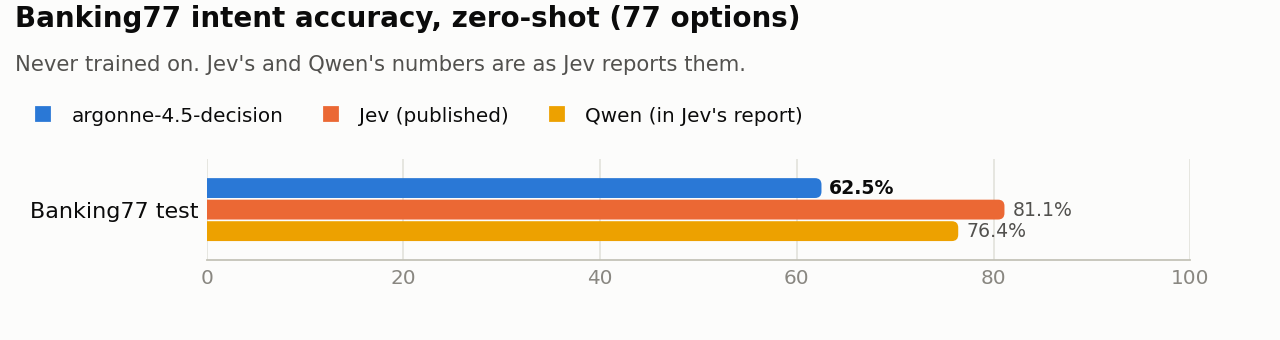
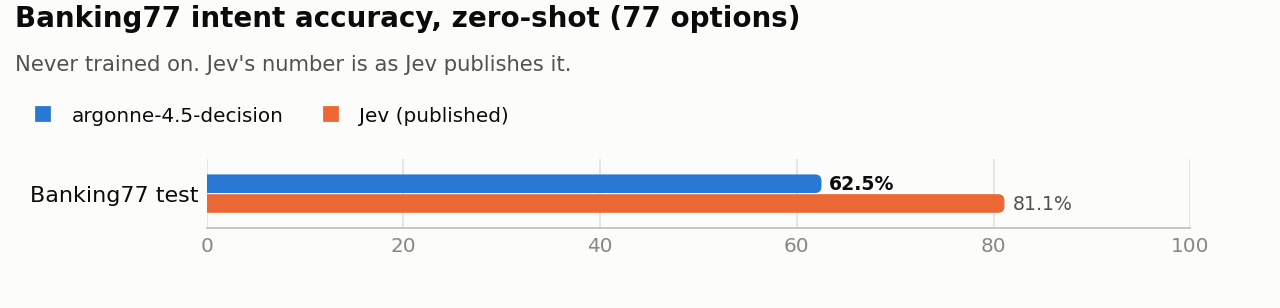
argonne-4.5-decision card: compare against zero-shot classifiers
The card and README now compare argonne-4.5-decision with the two most used open zero-shot classifiers,
DeBERTa-v3-large zero-shot v2.0 and BART-large-MNLI, on the eleven decision sets none of them trained
on, scored by decision/bench_report.py on identical items. Paired over all 23,410 items it is 4.5 points
more accurate than DeBERTa (95% bootstrap interval 3.7 to 5.2, exact McNemar p below 1e-30) and 18.4
more than BART (17.7 to 19.1), with mean calibration error 0.119 against 0.215 and 0.300. DeBERTa
remains better on plain sentiment, spam and 20 Newsgroups.

The Banking77 figure and table keep only Jev's published number next to ours, and general-LLM
comparisons are removed. decision/baseline_suite.py is now the NLI zero-shot classifier path only.

diff --git a/decision/baseline_suite.py b/decision/baseline_suite.py
@@ -1,30 +1,18 @@
-"""Open-model baselines on the decision sets argonne-4.5-decision never trained on, scored like the model itself.
+"""Zero-shot classifier baselines on the decision sets argonne-4.5-decision never trained on, scored like the model.
 
-    python decision/baseline_suite.py --kind nli --model MoritzLaurer/deberta-v3-large-zeroshot-v2.0 --data ood.jsonl --out x.npz
-    python decision/baseline_suite.py --kind llm --model Qwen/Qwen2.5-7B-Instruct --data ood.jsonl --out y.npz
+    python decision/baseline_suite.py --model MoritzLaurer/deberta-v3-large-zeroshot-v2.0 --data ood.jsonl --out x.npz
 
-nli: a zero-shot NLI classifier, the standard recipe (the Hugging Face zero-shot pipeline's). Choice: one premise /
-hypothesis pair per option ("This example is {option}." for label lists, "The answer is: {option}" for questions),
-softmax over the options' entailment logits. Noul: the statement itself is the hypothesis, P(entailment).
-llm: an instruction model through vLLM, thinking off. Choice with up to 26 options: lettered options, the first answer
-token's log-probabilities over the letters. More than 26 options: the model writes the option (greedy), matched to the
-list; accuracy only, since no single token carries a probability. Noul: p("true") / (p("true") + p("false")).
-Writes evaluate.py's npz layout (ood_logits, ood_label, ood_source, ood_ids, ood_source_names, ood_scored), so the
-same accuracy and calibration code reads every model. ood_scored marks the items whose probabilities are real.
+The standard recipe (the Hugging Face zero-shot pipeline's). Choice: one premise / hypothesis pair per option ("This
+example is {option}." for label lists, "The answer is: {option}" for questions), softmax over the options' entailment
+logits. Noul: the statement itself is the hypothesis, P(entailment). Writes evaluate.py's npz layout (ood_logits,
+ood_label, ood_source, ood_ids, ood_source_names, ood_scored), so decision/bench_report.py scores every model the same.
 """
 import argparse
-import difflib
 import json
-import math
 
 import numpy as np
 
-LETTERS = "ABCDEFGHIJKLMNOPQRSTUVWXYZ"
 LABEL_LISTS = ("banking77", "newsgroups", "fin_topic", "fin_sentiment")   # options are label names, not answers
-
-
-def norm(t):
-    return " ".join("".join(c if c.isalnum() else " " for c in t.lower()).split())
 
 
 def hyp_choice(r, opt):
@@ -80,91 +68,16 @@ def run_nli(args, recs):
     return L, np.ones(len(recs), dtype=bool)
 
 
-def _shim_tokenizer_for_vllm():
-    """transformers 5.x removed `all_special_tokens_extended`, which vLLM 0.11's tokenizer cache still reads.
-    Rebuild it from added_tokens_decoder (the same shim reasoning/vllm_argonne.py applies)."""
-    from transformers.tokenization_utils_base import PreTrainedTokenizerBase
-    if hasattr(PreTrainedTokenizerBase, "all_special_tokens_extended"):
-        return
-
-    def _aste(self):
-        dec = getattr(self, "added_tokens_decoder", {}) or {}
-        out = [dec[i] for i in self.all_special_ids if i in dec]
-        return out if out else list(self.all_special_tokens)
-    PreTrainedTokenizerBase.all_special_tokens_extended = property(_aste)
-
-
-def run_llm(args, recs):
-    _shim_tokenizer_for_vllm()
-    from vllm import LLM, SamplingParams
-    llm = LLM(model=args.model, trust_remote_code=True, max_model_len=args.max_model_len,
-              gpu_memory_utilization=args.gpu_mem, max_logprobs=26, seed=0)
-    kmax = max(len(r["options"]) for r in recs)
-    L = np.full((len(recs), kmax), -np.inf, dtype=np.float32)
-    scored = np.ones(len(recs), dtype=bool)
-    lettered = [i for i, r in enumerate(recs) if r["type"] == "choice" and len(r["options"]) <= 26]
-    written = [i for i, r in enumerate(recs) if r["type"] == "choice" and len(r["options"]) > 26]
-    noul = [i for i, r in enumerate(recs) if r["type"] == "noul"]
-    ctk = {"enable_thinking": False}
-
-    def body(r):
-        return (r["state"] + "\n\n") if r["state"] else ""
-    if lettered:
-        convs = [[{"role": "user", "content": body(recs[i]) + f"Question: {recs[i]['instructions']}\n"
-                   + "\n".join(f"{LETTERS[k]}. {o}" for k, o in enumerate(recs[i]["options"]))
-                   + "\n\nAnswer with the letter of the best option and nothing else."}] for i in lettered]
-        outs = llm.chat(convs, SamplingParams(temperature=0.0, max_tokens=1, logprobs=26), use_tqdm=True,
-                        chat_template_kwargs=ctk)
-        for i, o in zip(lettered, outs):
-            k = len(recs[i]["options"])
-            mass = [0.0] * k
-            for v in o.outputs[0].logprobs[0].values():
-                t = (v.decoded_token or "").strip().rstrip(".").upper()
-                if len(t) == 1 and t in LETTERS[:k]:
-                    mass[LETTERS.index(t)] += math.exp(v.logprob)
-            tot = sum(mass)
-            L[i, :k] = [math.log(m / tot) if tot > 0 and m > 0 else -30.0 for m in mass]
-    if written:
-        convs = [[{"role": "user", "content": body(recs[i]) + f"Question: {recs[i]['instructions']}\nOptions:\n"
-                   + "\n".join(f"- {o}" for o in recs[i]["options"])
-                   + "\n\nAnswer with the exact text of one option and nothing else."}] for i in written]
-        outs = llm.chat(convs, SamplingParams(temperature=0.0, max_tokens=40), use_tqdm=True, chat_template_kwargs=ctk)
-        for i, o in zip(written, outs):
-            ans, opts = norm(o.outputs[0].text), [norm(x) for x in recs[i]["options"]]
-            j = opts.index(ans) if ans in opts else max(range(len(opts)),
-                                                         key=lambda k: difflib.SequenceMatcher(None, ans, opts[k]).ratio())
-            L[i, :len(opts)] = -20.0
-            L[i, j] = 0.0
-            scored[i] = False
-    if noul:
-        convs = [[{"role": "user", "content": body(recs[i]) + f"Statement: {recs[i]['instructions']}\n\n"
-                   "Is the statement true for the text above? Answer with exactly one word: true or false."}] for i in noul]
-        outs = llm.chat(convs, SamplingParams(temperature=0.0, max_tokens=1, logprobs=20), use_tqdm=True,
-                        chat_template_kwargs=ctk)
-        for i, o in zip(noul, outs):
-            pt = pf = 0.0
-            for v in o.outputs[0].logprobs[0].values():
-                t = (v.decoded_token or "").strip().lower()
-                pt += math.exp(v.logprob) if t == "true" else 0.0
-                pf += math.exp(v.logprob) if t == "false" else 0.0
-            if pt + pf == 0:
-                pt = pf = 1.0
-            L[i, 0], L[i, 1] = math.log(max(pt, 1e-12)), math.log(max(pf, 1e-12))
-    return L, scored
-
-
 def main():
     ap = argparse.ArgumentParser()
-    ap.add_argument("--kind", choices=("nli", "llm"), required=True)
+    ap.add_argument("--kind", choices=("nli",), default="nli")
     ap.add_argument("--model", required=True)
     ap.add_argument("--data", required=True)
     ap.add_argument("--out", required=True)
     ap.add_argument("--batch", type=int, default=64)
-    ap.add_argument("--gpu_mem", type=float, default=0.55)
-    ap.add_argument("--max_model_len", type=int, default=16384)
     args = ap.parse_args()
     recs = [json.loads(l) for l in open(args.data)]
-    L, scored = (run_nli if args.kind == "nli" else run_llm)(args, recs)
+    L, scored = run_nli(args, recs)
     names = sorted({r["source"] for r in recs})
     labels = np.array([r["label"] for r in recs])
     np.savez_compressed(args.out, ood_logits=L, ood_label=labels, ood_type=np.array([r["type"] == "noul" for r in recs]) * 2,

diff --git a/model_cards/argonne-4.5-decision.md b/model_cards/argonne-4.5-decision.md
@@ -23,7 +23,8 @@ probability over the options you gave it, so it cannot answer outside your schem
 
 Measured plainly: its probabilities are well calibrated (expected calibration error 0.022 on multiple choice
 and 0.024 on ratings, against the 0.082 and 0.325 that Jev publishes), a call takes 59 to 118 ms on one A100,
-and it is a 2B model: zero-shot on Banking77 it scores 62.5%, against Jev's 81.1%.
+on eleven decision sets it never trained on it is 4.5 points more accurate than DeBERTa-v3-large zero-shot, and it
+is a 2B model: zero-shot on Banking77 it scores 62.5%, against Jev's 81.1%.
 
 ![How a decision call works: text and questions in, one pass through the trunk, the decision head scores each option, calibrated typed JSON out](https://huggingface.co/PursuitOfDataScience/argonne-4.5-decision/resolve/main/assets/how.png)
 
@@ -64,7 +65,7 @@ threshold on a few labeled examples rather than trusting 0.5.
 
 Banking77's 3,076 test questions, all 77 intent names as the options, never trained on.
 
-![Banking77 zero-shot accuracy: argonne-4.5-decision against Jev and Qwen as Jev reports them](https://huggingface.co/PursuitOfDataScience/argonne-4.5-decision/resolve/main/assets/banking77.png)
+![Banking77 zero-shot accuracy: argonne-4.5-decision against Jev's published number](https://huggingface.co/PursuitOfDataScience/argonne-4.5-decision/resolve/main/assets/banking77.png)
 
 <details>
 <summary>Show the numbers</summary>
@@ -73,13 +74,11 @@ Banking77's 3,076 test questions, all 77 intent names as the options, never trai
 |---|---:|---:|---:|
 | **argonne-4.5-decision** | **62.5** | 80.7 | 86.4 |
 | Jev (published) | 81.1 | | |
-| Qwen (as reported by Jev) | 76.4 | | |
 
 </details>
 
 The misses are mostly near neighbours ("order physical card" against "get physical card") and intents whose
-names describe their questions poorly. Most of the gap is model size: a 35B general instruction model answers
-74.8% of the same items in our harness.
+names describe their questions poorly.
 
 ### Decision sets it never trained on
 
@@ -110,6 +109,44 @@ question spells the decision out in the statement: "yes when the text is A, B or
 It follows a rule written into the question well, including on label sets it has never seen. A brand-new
 yes/no criterion with no rule attached is harder (56 to 66%), and knowledge-heavy multiple choice (MMLU,
 TruthfulQA) stays at the level of its base.
+
+### Against zero-shot classifiers
+
+The same eleven never-trained sets and the same scoring code, against the two most used open zero-shot classifiers,
+[DeBERTa-v3-large zero-shot v2.0](https://huggingface.co/MoritzLaurer/deberta-v3-large-zeroshot-v2.0) and
+[BART-large-MNLI](https://huggingface.co/facebook/bart-large-mnli), each run the standard way: one entailment pair per
+option ("This example is {option}." for label lists, "The answer is: {option}" for questions) with a softmax over the
+options, and the statement itself as the hypothesis for a yes/no question.
+
+![Accuracy per never-trained set: argonne-4.5-decision against DeBERTa-v3-large zero-shot and BART-large-MNLI](https://huggingface.co/PursuitOfDataScience/argonne-4.5-decision/resolve/main/assets/baselines.png)
+
+![Mean calibration error over the eleven sets for the three models](https://huggingface.co/PursuitOfDataScience/argonne-4.5-decision/resolve/main/assets/baselines_ece.png)
+
+<details>
+<summary>Show the numbers (accuracy %, calibration error in brackets)</summary>
+
+| set | questions | **argonne-4.5-decision** | DeBERTa-v3-large zero-shot v2.0 | BART-large-MNLI |
+|---|---:|---:|---:|---:|
+| Banking77 intents, 77 options | 3,076 | **62.5 (0.160)** | 59.9 (0.096) | 43.7 (0.239) |
+| 20 Newsgroups, 20 options | 2,000 | **61.2 (0.028)** | 63.8 (0.039) | 35.5 (0.197) |
+| Finance news topics, 20 options | 4,117 | **40.3 (0.038)** | 16.2 (0.245) | 15.6 (0.149) |
+| Finance news sentiment, 3 options | 2,388 | **56.5 (0.090)** | 83.3 (0.049) | 14.9 (0.414) |
+| MMLU, 4 options | 4,000 | **45.5 (0.077)** | 40.4 (0.011) | 33.5 (0.112) |
+| TruthfulQA MC1 | 817 | **31.7 (0.240)** | 32.3 (0.050) | 47.5 (0.103) |
+| Banking77 intents, as a written rule | 798 | **83.7 (0.083)** | 54.9 (0.419) | 52.6 (0.434) |
+| 20 Newsgroups, as a written rule | 461 | **80.5 (0.100)** | 59.9 (0.357) | 53.6 (0.453) |
+| Finance news topics, as a written rule | 1,012 | **69.9 (0.119)** | 54.2 (0.419) | 50.3 (0.484) |
+| Spam email (yes / no) | 2,000 | **65.5 (0.173)** | 76.1 (0.197) | 51.4 (0.448) |
+| Unsafe chat request (yes / no) | 2,741 | **56.4 (0.201)** | 49.1 (0.479) | 56.3 (0.262) |
+| **mean of the 11 sets** | | **59.4 (0.119)** | 53.6 (0.215) | 41.4 (0.300) |
+
+</details>
+
+Paired on all 23,410 items, argonne-4.5-decision is 4.5 points more accurate than DeBERTa-v3-large
+zero-shot (95% bootstrap interval 3.7 to 5.2; exact McNemar p below 1e-30) and 18.4 points more than
+BART-large-MNLI (17.7 to 19.1), with about half DeBERTa's calibration error. It is ahead on Banking77's 77 intents, 20-way finance topics, MMLU
+and unsafe requests, and by 16 to 29 points on rules written into the question, where both NLI models sit between 50%
+and 60%. DeBERTa is better on plain sentiment, spam and 20 Newsgroups, and BART-large-MNLI on TruthfulQA.
 
 ### Latency
 

diff --git a/README.md b/README.md
@@ -39,7 +39,7 @@ The decision model of the 4.5 line, released as [`PursuitOfDataScience/argonne-4
 Calibration error is measured on held-out test questions after one temperature per question type; latency is the median on one A100.
 
 
-It is a 2B model. Most of the Banking77 gap is model size: a 35B general model reaches 74.8% on the same items in our harness. Yes/no probabilities on unfamiliar tasks bunch toward the middle, so set the threshold on a few labeled examples rather than trusting 0.5.
+On eleven decision sets none of them trained on, it is 4.5 points more accurate than DeBERTa-v3-large zero-shot v2.0 (paired 95% interval 3.7 to 5.2) and 18.4 more than BART-large-MNLI, with about half DeBERTa's calibration error (mean ECE 0.119 against 0.215 and 0.300). It is a 2B model and trails Jev on Banking77, and yes/no probabilities on unfamiliar tasks bunch toward the middle, so set the threshold on a few labeled examples rather than trusting 0.5.
 
 ---
 
